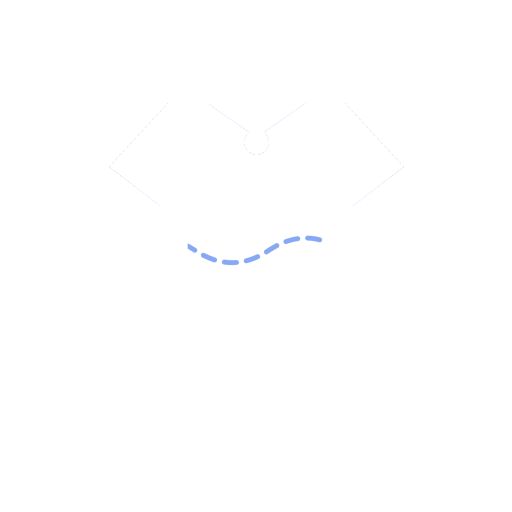
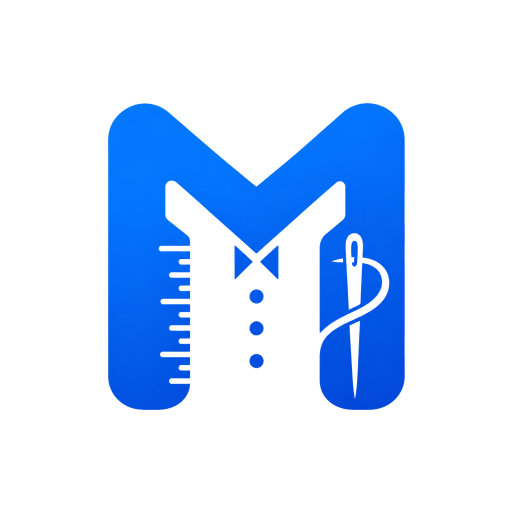
feat: rebrand project to MeasuresOne and add custom email templates for authentication flows

diff --git a/scripts/generate-icons.js b/scripts/generate-icons.js
@@ -1,12 +1,10 @@
 /**
- * Regenerates every app icon asset from assets/iconlogo.png.
+ * Regenerates every app icon asset from assets/measuresone.png.
  *
- * The source art is a rounded blue square on a transparent margin. Both iOS
- * and Android apply their own mask, so shipping that shape directly would
- * leave transparent corners inside their mask (a small icon floating in a
- * void). Instead the artwork is bled to the edges: the transparent margin is
- * trimmed, then the rounded corners are filled with a diagonal gradient
- * sampled from the art itself, so the seam is invisible.
+ * The source art is an "M" glyph in a blue gradient on a flat off-white
+ * background (no alpha channel). This script keys out the background to
+ * produce a transparent foreground for Android's adaptive icon, and pairs
+ * it with a flat brand-blue background layer sampled from the glyph itself.
  *
  * Run: node scripts/generate-icons.js
  */
@@ -15,16 +13,22 @@ const path = require('path');
 const Jimp = require('jimp-compact');
 
 const ASSETS = path.join(__dirname, '..', 'assets');
-const SOURCE = path.join(ASSETS, 'iconlogo.png');
+const SOURCE = path.join(ASSETS, 'measuresone.png');
 
-/** Bounding box of pixels with meaningful alpha, i.e. the rounded square. */
-function opaqueBounds(image) {
+/** True if a pixel is close enough to white to count as background. */
+function isBackground(r, g, b) {
+  return r > 235 && g > 235 && b > 235;
+}
+
+/** Bounding box of non-background pixels. */
+function glyphBounds(image) {
   const { width, height, data } = image.bitmap;
   let minX = width, minY = height, maxX = -1, maxY = -1;
 
   for (let y = 0; y < height; y++) {
     for (let x = 0; x < width; x++) {
-      if (data[(width * y + x) * 4 + 3] > 8) {
+      const o = (width * y + x) * 4;
+      if (!isBackground(data[o], data[o + 1], data[o + 2])) {
         if (x < minX) minX = x;
         if (x > maxX) maxX = x;
         if (y < minY) minY = y;
@@ -35,7 +39,7 @@ function opaqueBounds(image) {
   return { x: minX, y: minY, w: maxX - minX + 1, h: maxY - minY + 1 };
 }
 
-/** Colour a little way inside a corner, used as a gradient stop. */
+/** Colour a little way inside a corner of the glyph, used as a gradient stop. */
 function sampleAt(image, fx, fy) {
   const x = Math.round(image.bitmap.width * fx);
   const y = Math.round(image.bitmap.height * fy);
@@ -43,7 +47,6 @@ function sampleAt(image, fx, fy) {
   return [c.r, c.g, c.b];
 }
 
-/** Solid canvas carrying the same top-left → bottom-right gradient as the art. */
 function gradientCanvas(size, from, to) {
   const canvas = new Jimp(size, size);
   for (let y = 0; y < size; y++) {
@@ -62,74 +65,52 @@ async function main() {
   if (!fs.existsSync(SOURCE)) throw new Error(`Missing source art: ${SOURCE}`);
 
   const source = await Jimp.read(SOURCE);
-  const box = opaqueBounds(source);
-  const art = source.clone().crop(box.x, box.y, box.w, box.h);
-  console.log(`source ${source.bitmap.width}x${source.bitmap.height} → art ${box.w}x${box.h}`);
+  const box = glyphBounds(source);
+  console.log(`source ${source.bitmap.width}x${source.bitmap.height} → glyph ${box.w}x${box.h}`);
 
-  // Sample just inside the rounded square, away from the white t-shirt.
-  const from = sampleAt(art, 0.12, 0.08);
-  const to = sampleAt(art, 0.88, 0.94);
+  const from = sampleAt(source, box.x / source.bitmap.width + 0.05, box.y / source.bitmap.height + 0.05);
+  const to = sampleAt(source, (box.x + box.w) / source.bitmap.width - 0.05, (box.y + box.h) / source.bitmap.height - 0.05);
   console.log('gradient', from, '→', to);
 
-  // --- icon.png / splash-icon.png: full-bleed, no transparency ---
-  const full = gradientCanvas(1024, from, to);
-  full.composite(art.clone().resize(1024, 1024), 0, 0);
-  await full.clone().writeAsync(path.join(ASSETS, 'icon.png'));
-  await full.clone().writeAsync(path.join(ASSETS, 'splash-icon.png'));
+  // --- icon.png / splash-icon.png: source as-is (white background, no transparency) ---
+  await source.clone().resize(1024, 1024).writeAsync(path.join(ASSETS, 'icon.png'));
+  await source.clone().resize(1024, 1024).writeAsync(path.join(ASSETS, 'splash-icon.png'));
 
   // --- favicon ---
-  await full.clone().resize(48, 48).writeAsync(path.join(ASSETS, 'favicon.png'));
+  await source.clone().resize(48, 48).writeAsync(path.join(ASSETS, 'favicon.png'));
 
-  // --- Android adaptive foreground ---
-  // Only the garment belongs here — the blue plate is supplied by the
-  // background layer. Leaving the plate in would show its rounded corners
-  // inside the system's circular mask. Pixels are kept by luminance: the
-  // plate sits near 0.37, the dashed stitch line near 0.70, white at 1.0.
-  const KEEP_LUMA = 0.55;
-  const garment = art.clone();
-  const { width: gw, height: gh, data: gd } = garment.bitmap;
+  // --- Glyph with background keyed out to transparency, cropped tight ---
+  const glyph = source.clone().crop(box.x, box.y, box.w, box.h);
+  const { width: gw, height: gh, data: gd } = glyph.bitmap;
   for (let i = 0; i < gw * gh; i++) {
     const o = i * 4;
-    const luma = (0.299 * gd[o] + 0.587 * gd[o + 1] + 0.114 * gd[o + 2]) / 255;
-    if (luma < KEEP_LUMA) gd[o + 3] = 0;
+    if (isBackground(gd[o], gd[o + 1], gd[o + 2])) gd[o + 3] = 0;
   }
 
-  // Trim to the garment's own bounds first — otherwise it keeps the plate's
-  // generous padding and ends up tiny inside the system mask.
-  const gBox = opaqueBounds(garment);
-  const garmentOnly = garment.clone().crop(gBox.x, gBox.y, gBox.w, gBox.h);
-
-  // Android crops to a circle/squircle; only the middle ~66% is guaranteed
-  // visible, so the garment is fitted inside that safe zone.
+  // --- Android adaptive foreground: glyph fitted inside the safe zone ---
   const FG = 512;
   const safe = Math.round(FG * 0.6);
-  const scale = safe / Math.max(gBox.w, gBox.h);
-  const gw2 = Math.round(gBox.w * scale);
-  const gh2 = Math.round(gBox.h * scale);
+  const scale = safe / Math.max(gw, gh);
+  const fgw = Math.round(gw * scale);
+  const fgh = Math.round(gh * scale);
   const foreground = new Jimp(FG, FG, 0x00000000);
-  foreground.composite(
-    garmentOnly.resize(gw2, gh2),
-    Math.round((FG - gw2) / 2),
-    Math.round((FG - gh2) / 2)
-  );
+  foreground.composite(glyph.clone().resize(fgw, fgh), Math.round((FG - fgw) / 2), Math.round((FG - fgh) / 2));
   await foreground.writeAsync(path.join(ASSETS, 'android-icon-foreground.png'));
 
-  // --- Android adaptive background: flat brand blue ---
+  // --- Android adaptive background: flat brand-blue gradient ---
   const background = gradientCanvas(512, from, to);
   await background.writeAsync(path.join(ASSETS, 'android-icon-background.png'));
 
   // --- Monochrome (themed icons): white silhouette on transparent ---
   const MONO = 432;
   const monoSafe = Math.round(MONO * 0.6);
-  const monoScale = monoSafe / Math.max(gBox.w, gBox.h);
-  const mw2 = Math.round(gBox.w * monoScale);
-  const mh2 = Math.round(gBox.h * monoScale);
-  const monoArt = garmentOnly.clone().resize(mw2, mh2);
+  const monoScale = monoSafe / Math.max(gw, gh);
+  const mw2 = Math.round(gw * monoScale);
+  const mh2 = Math.round(gh * monoScale);
+  const monoArt = glyph.clone().resize(mw2, mh2);
   const md = monoArt.bitmap.data;
   for (let i = 0; i < mw2 * mh2; i++) {
     const o = i * 4;
-    // Themed icons are tinted by the system, so flatten to pure white and
-    // let alpha carry the shape.
     md[o] = md[o + 1] = md[o + 2] = 255;
   }
   const mono = new Jimp(MONO, MONO, 0x00000000);

diff --git a/assets/email-templates/reset-password.html b/assets/email-templates/reset-password.html
@@ -1,13 +1,11 @@
 <!--
-  NOTE: superseded by assets/email-templates/confirm-signup.html — kept here
-  in sync for backwards compatibility with anything already linking to this path.
-
-  Supabase → Authentication → Emails → Templates → "Confirm signup"
+  Supabase → Authentication → Emails → Templates → "Reset Password"
   Paste this into the Message body field. Subject suggestion:
-      Confirm your MeasuresOne account
+      Reset your MeasuresOne password
 
   {{ .ConfirmationURL }} is the only required variable — it carries the
-  token and redirects to the app's apnakapad://confirm-email deep link.
+  token and redirects to the app's apnakapad://reset-password deep link
+  (see EMAIL_CONFIRM_REDIRECT / redirectTo in context/AuthContext.tsx).
   Other variables available: {{ .Email }}, {{ .SiteURL }}, {{ .Token }}.
 
   LOGO_URL: replace with a publicly hosted URL for assets/measuresone.png
@@ -47,12 +45,13 @@
         <tr>
           <td style="padding:32px;">
             <div style="color:#101828;font-size:20px;font-weight:700;margin-bottom:12px;">
-              Confirm your email
+              Reset your password
             </div>
 
             <div style="color:#475467;font-size:15px;line-height:24px;margin-bottom:28px;">
-              Tap the button below to confirm <strong style="color:#101828;">{{ .Email }}</strong>
-              and finish setting up your shop. The app will open automatically.
+              We received a request to reset the password for
+              <strong style="color:#101828;">{{ .Email }}</strong>.
+              Tap the button below to choose a new one. The app will open automatically.
             </div>
 
             <!-- Button -->
@@ -61,7 +60,7 @@
                 <td style="background-color:#1D4ED8;border-radius:8px;">
                   <a href="{{ .ConfirmationURL }}"
                      style="display:inline-block;padding:14px 32px;color:#FFFFFF;font-size:16px;font-weight:600;text-decoration:none;">
-                    Confirm Email
+                    Reset Password
                   </a>
                 </td>
               </tr>
@@ -70,8 +69,14 @@
             <div style="color:#667085;font-size:13px;line-height:20px;margin-bottom:8px;">
               Button not working? Copy this link into your browser:
             </div>
-            <div style="color:#1D4ED8;font-size:12px;line-height:18px;word-break:break-all;">
+            <div style="color:#1D4ED8;font-size:12px;line-height:18px;word-break:break-all;margin-bottom:24px;">
               {{ .ConfirmationURL }}
+            </div>
+
+            <div style="color:#98A2B3;font-size:12px;line-height:18px;">
+              This link expires shortly for your security. If you didn't request
+              a password reset, you can safely ignore this email — your password
+              won't be changed.
             </div>
           </td>
         </tr>
@@ -80,8 +85,7 @@
         <tr>
           <td style="background-color:#F9FAFB;padding:20px 32px;border-top:1px solid #E5E7EB;">
             <div style="color:#98A2B3;font-size:12px;line-height:18px;">
-              If you didn't create a MeasuresOne account, you can safely ignore
-              this email — no account will be activated.
+              Didn't request this? No action is needed — your MeasuresOne account is still secure.
             </div>
           </td>
         </tr>

diff --git a/screens/ComponentShowcaseScreen.tsx b/screens/ComponentShowcaseScreen.tsx
@@ -268,7 +268,7 @@ export default function ComponentShowcaseScreen() {
           <View className="flex-row items-center gap-4">
             <Avatar name="Harsh Parmar" size="sm" />
             <Avatar name="Rahul Sharma" size="md" />
-            <Avatar name="Apna Kapad" size="lg" />
+            <Avatar name="MeasuresOne" size="lg" />
           </View>
         </Section>
 

diff --git a/assets/email-templates/confirm-signup.html b/assets/email-templates/confirm-signup.html
@@ -1,7 +1,4 @@
 <!--
-  NOTE: superseded by assets/email-templates/confirm-signup.html — kept here
-  in sync for backwards compatibility with anything already linking to this path.
-
   Supabase → Authentication → Emails → Templates → "Confirm signup"
   Paste this into the Message body field. Subject suggestion:
       Confirm your MeasuresOne account

diff --git a/app.config.js b/app.config.js
@@ -2,7 +2,7 @@ require('dotenv/config');
 
 module.exports = {
   expo: {
-    name: 'apna-kapd',
+    name: 'MeasuresOne',
     slug: 'apna-kapd',
     version: '1.0.0',
     orientation: 'portrait',
